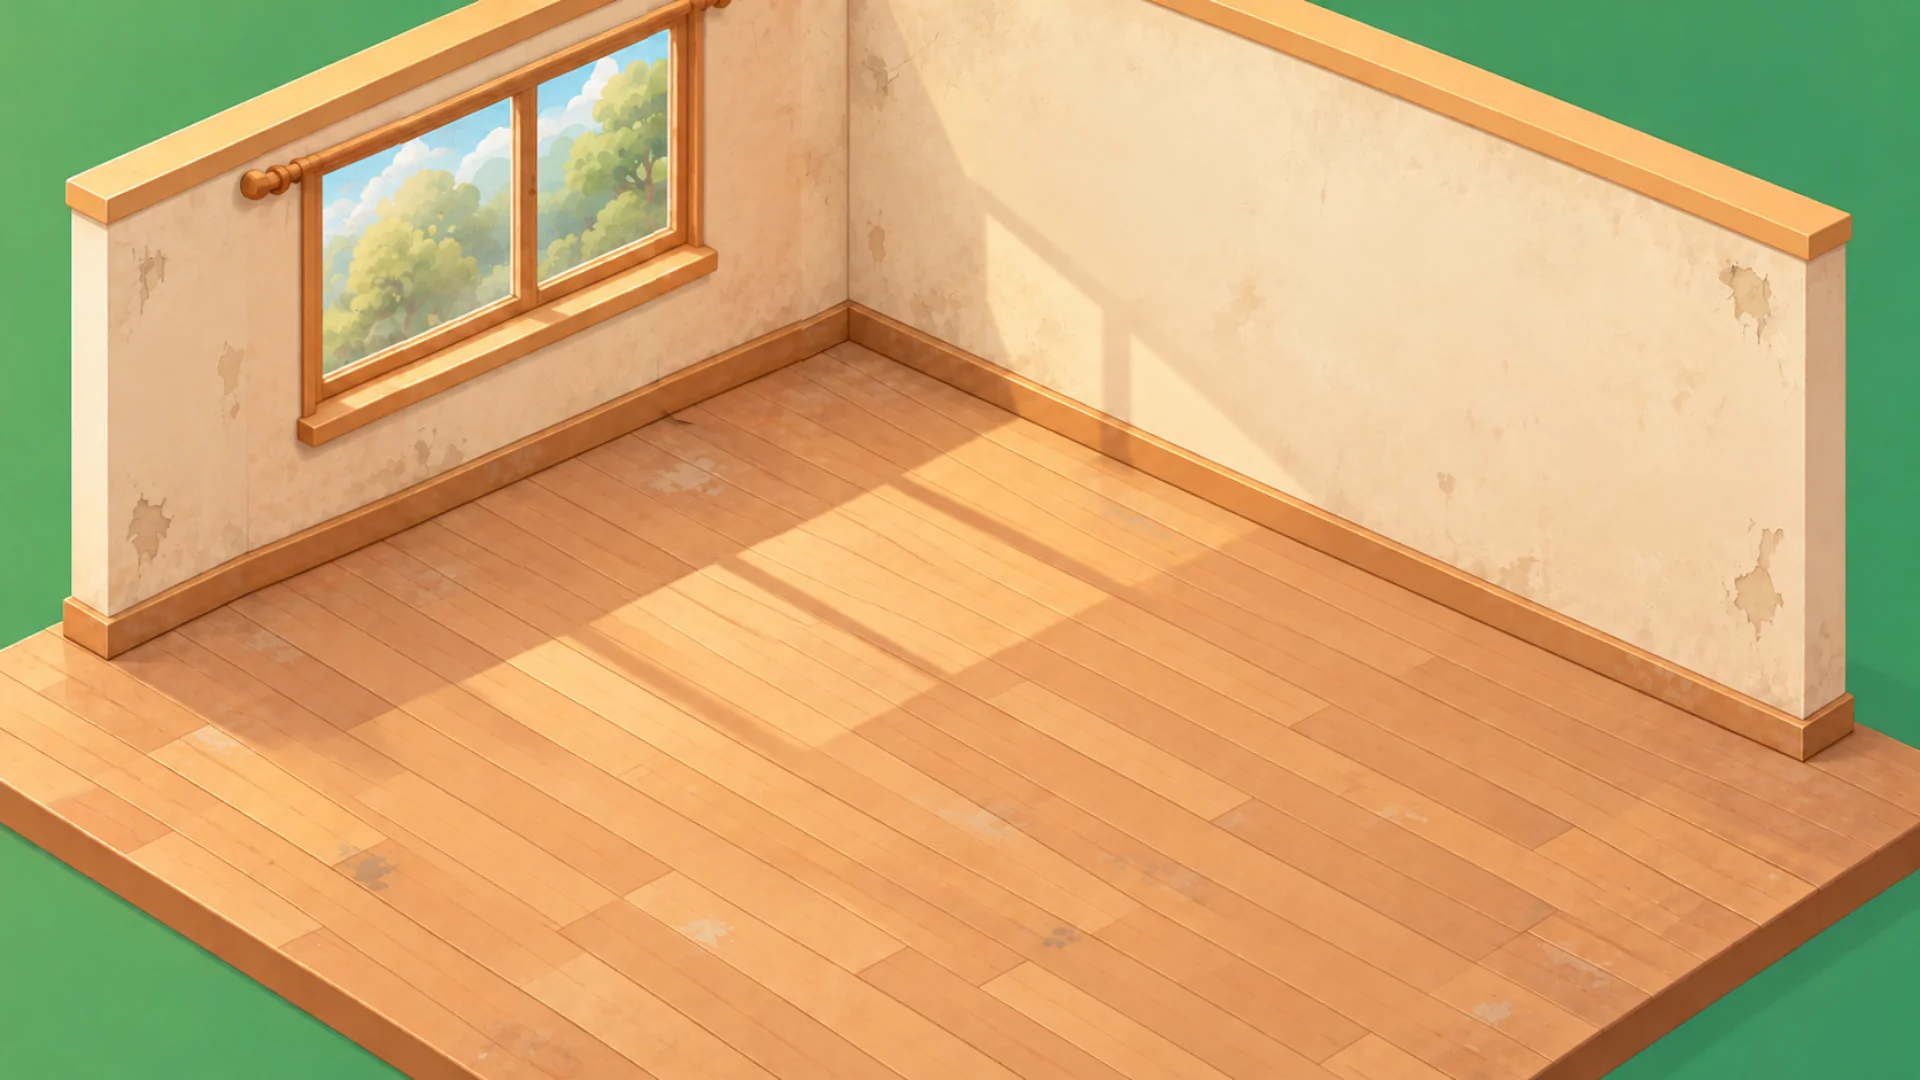
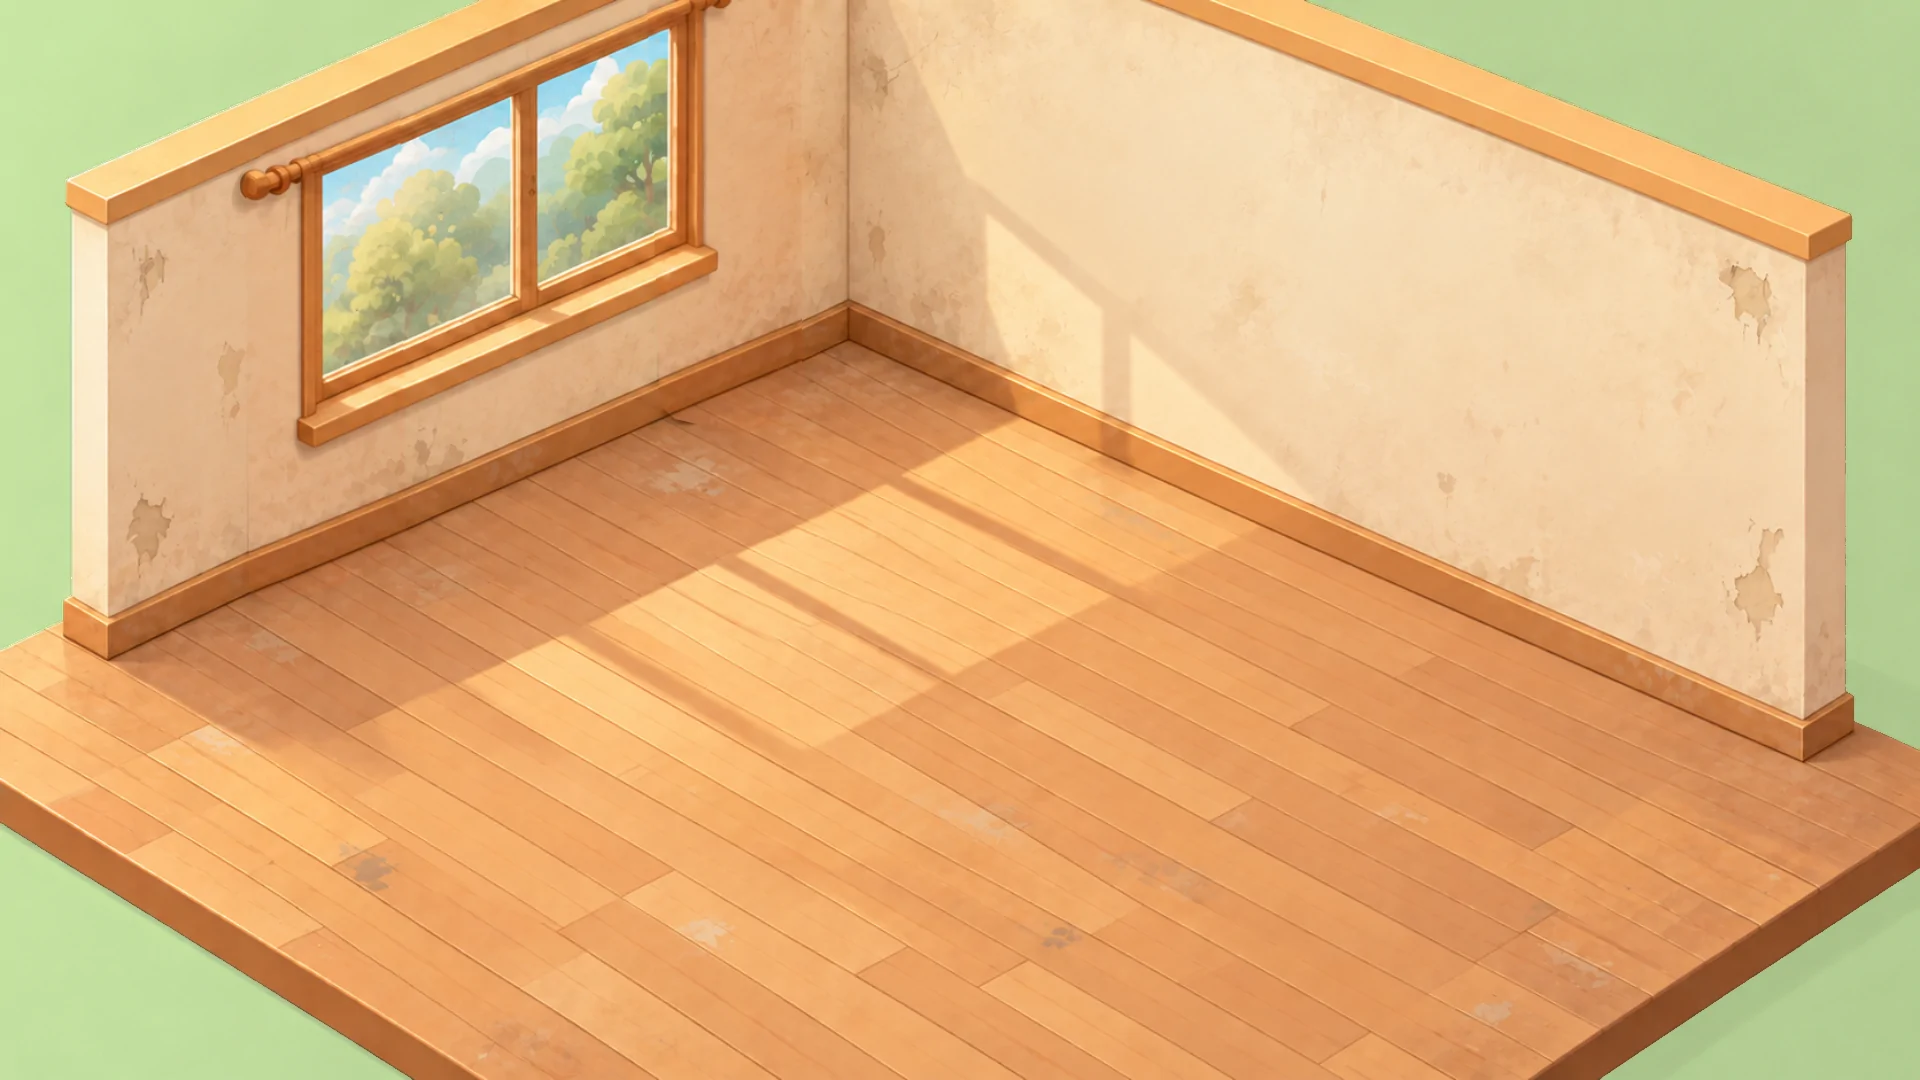
feat(salon-style): board recolour in the art pipeline (p4)
scripts/recolour-board.py (pinned Pillow/numpy, edge flood-fill mask, muted listki #BCD799), called by npm run art for the two salon backgrounds; both WebPs regenerated.

Claude-Session: https://claude.ai/code/session_0176wGTeCz3LW9VbZLjjLoEz

diff --git a/src/data/balance.ts b/src/data/balance.ts
@@ -15,7 +15,7 @@ export const balance = {
     artHealth: { labelCap: 3, fallbackLogEvery: 10 }, // fallbackLogEvery: ASL-04, the task scene logs one summary line per this many rounds where the art filter had to fall back (log only, no player-visible effect); labelCap: health-lines-and-smoke: at most this many labels of missing salon pieces in "Obrazki" (a longer list is noise for a parent)
     roomHold: { holdMs: 600, moveTolerance: 40 }, // PRD FR-018: a short hold on a furnished item opens the change panel; 600 ms is above the platform press thresholds (Android 400-500 ms, iOS 0.5 s) so a slow tap stays a tap, below the parent's 2 s; 40 game px is about 21 CSS px at 1024 wide, under half of a 96 px target
     roomHit: { minAlpha: 16 }, // S-16a: a touch counts on a furniture picture when its pixel has at least this alpha (0-255); the soft edge of a drop shadow stays below it, so a transparent corner of a big piece (the rug is 1111 px wide) lets the touch through to the piece below
-    loader: { timeoutMs: 12000, maxRetries: 1, slowAfterMs: 8000, totalMs: 50000 }, // audit H-2: a file the server never answers ends as a load error after this long, so the game starts on the stand-in boxes and "Obrazki" counts it missing instead of an endless loading bar; worst case per file (maxRetries + 1) x timeoutMs = 24 s, files load in parallel; the largest file is 115 KB (the task font), about 2.3 s at 50 KB/s on a cold first start, and after the first start the service worker serves them from its cache; audit A-1 / A-2: slowAfterMs shows the calm "still loading" line (a fast start ends within a few seconds, so 8 s means something is slow); totalMs is ONE limit for the whole boot load: the WebP pictures, the font and the 12 boot sound effects (M4A) are 1 922 277 B and the S-16c pack art adds 151 016 B, 2 090 166 B in all after the fox guide (S-16d grew the salon from 26 to 38 files, 1 233 242 to 1 489 688 B, and salon-style dropped the 288 634 B worn-furniture picture, 37 files, 1 201 054 B; the three 384 x 384 fox poses add 42 384 B), about 41.8 s at 50 KB/s on a cold first start, so the limit is 50 s (tests/bootBudget.test.ts sums the boot files on disk and keeps 2 s of headroom, so the next art addition forces a decision) (the two loading pictures are queued first, so the screen shows them early) (more while the service worker install downloads the same files in parallel), S-16b adds 12 sound effects to the boot queue, measured 132 243 B as M4A or 81 144 B as OGG (Phaser picks one format per file, M4A first), the 48 s music loop is not in the queue (746 014 B M4A, 107 707 B OGG, loaded only when the parent turns the music on); it stays above the 24 s worst case of one file, so a single stalled file still ends by its own limit; past it the game starts with what loaded and stand-ins for the rest, and the next start reads the service worker cache
+    loader: { timeoutMs: 12000, maxRetries: 1, slowAfterMs: 8000, totalMs: 50000 }, // audit H-2: a file the server never answers ends as a load error after this long, so the game starts on the stand-in boxes and "Obrazki" counts it missing instead of an endless loading bar; worst case per file (maxRetries + 1) x timeoutMs = 24 s, files load in parallel; the largest file is 115 KB (the task font), about 2.3 s at 50 KB/s on a cold first start, and after the first start the service worker serves them from its cache; audit A-1 / A-2: slowAfterMs shows the calm "still loading" line (a fast start ends within a few seconds, so 8 s means something is slow); totalMs is ONE limit for the whole boot load: the WebP pictures, the font and the 12 boot sound effects (M4A) are 1 922 277 B and the S-16c pack art adds 151 016 B, 2 092 396 B in all after the fox guide (S-16d grew the salon from 26 to 38 files, 1 233 242 to 1 489 688 B, and salon-style dropped the 288 634 B worn-furniture picture, 37 files, 1 203 284 B, the two backgrounds recoloured by scripts/recolour-board.py; the three 384 x 384 fox poses add 42 384 B), about 41.8 s at 50 KB/s on a cold first start, so the limit is 50 s (tests/bootBudget.test.ts sums the boot files on disk and keeps 2 s of headroom, so the next art addition forces a decision) (the two loading pictures are queued first, so the screen shows them early) (more while the service worker install downloads the same files in parallel), S-16b adds 12 sound effects to the boot queue, measured 132 243 B as M4A or 81 144 B as OGG (Phaser picks one format per file, M4A first), the 48 s music loop is not in the queue (746 014 B M4A, 107 707 B OGG, loaded only when the parent turns the music on); it stays above the 24 s worst case of one file, so a single stalled file still ends by its own limit; past it the game starts with what loaded and stand-ins for the rest, and the next start reads the service worker cache
     save: { debounceMs: 500, loadTimeoutMs: 5000, writeTimeoutMs: 5000, slowLoadTimeoutMs: 20000, backupAttempts: 3, migrationWriteRetries: 4, importMaxBytes: 1_000_000, forceAfterStarts: 2 }, // forceAfterStarts: a save the browser would not give (`unavailable`, not a timeout) may be replaced only from the 2nd consecutive such start (SRR-08): one refused read can be a passing glitch while the child's progress is still there, two in a row mean a broken store; the counter lives in localStorage outside the save; PRD FR-020 "short delay" after a change before the autosave writes (plan section 8); a kill inside the window loses at most the last ~0.5 s, purchases and round ends are saved at once; loadTimeoutMs: a cold IndexedDB open on an older iPad, the page is blank while it reads, so longer reads look like a crash; writeTimeoutMs: the same order as the read limit, a write or copy is tens of KB on an open connection, so a longer wait means the store hangs and the attempt is a named `timeout` failure; slowLoadTimeoutMs: the one longer wait on the SAME read after the first limit ("Poczekaj dłużej"), instead of a start counter: a cold open that needs more than 25 s in total is not a slow start but a broken store; backupAttempts: failed copies of the raw previous-version save (v1 before v2, v2 before v3, v3 before v4) in one session; the progress is written first after a failed copy and the copy is retried after later writes until this cap, then given up with a `lost`/`uncertain` record (save-truth) (a first round is about 7-12 save attempts, so 3 fit in the first minute of play; a child's progress outweighs the raw old bytes); migrationWriteRetries: retries of the first write after a migration without any change from the child (backupAttempts + 1), so a store that fails once is tried again without markDirty and one that never works stops; importMaxBytes: the largest file the parent import reads (a v1 save with 200 history entries is tens of KB, so 1 MB is generous and still safe to parse in memory)
     arrows: { maxValue: 20, tableMin: 3, tableMax: 4 }, // S-14b: values on an arrow graph or table stay in 0..20, a table has 3-4 rows
     numberLine: { maxTicks: 31 }, // S-14b: at most 31 ticks on a drawn number line (0..30 every 1, 0..100 every 10 uses 11), so labels stay readable at 1920 wide

diff --git a/scripts/recolour-board.py b/scripts/recolour-board.py
@@ -1,0 +1,103 @@
+#!/usr/bin/env python3
+"""Recolours the green board under the salon diorama (architecture-before / architecture-after).
+
+Usage: python3 scripts/recolour-board.py <in.png> <out.png> <#RRGGBB>
+
+DESIGN-GAP 170: the kit's board is a saturated green that fights the muted palette of the notebook screens.
+The target #BCD799 is the kit's leafGreen #90C36A at 60 % over ivory #FFF5DF (a muted "listki" green, not a kit token).
+
+Mask: HSV hue 95-165 deg and saturation > 0.30, flood-filled from the frame edges only, so the green trees in the
+window and anything else inside the room stay untouched. Recolour: the local board colour comes from a normalised
+Gaussian blur (radius 6); the target is the colour times (L / mean L) ** 0.5, which keeps the lighting gradient of the
+board. Pixels within a 3 px dilation of the board (the antialiased rim) are shifted by w * (target - local board), with
+w from the colour distance to the local board, so no green rim is left around the diorama.
+
+Local tool, like `npm run font`: needs Python 3 with Pillow and numpy, run by `npm run art`. Not run in CI, outputs are
+committed. It refuses to run on other library versions so a rebuild is byte-identical or fails loudly. The output PNG
+has no metadata and a fixed compression level.
+"""
+import collections
+import sys
+
+import numpy as np
+import PIL
+from PIL import Image, ImageFilter
+
+PINNED_PILLOW = '12.1.0'
+PINNED_NUMPY = '2.4.3'
+
+
+def check_versions() -> None:
+    if PIL.__version__ != PINNED_PILLOW or np.__version__ != PINNED_NUMPY:
+        sys.exit(f'recolour-board: Pillow {PIL.__version__} / numpy {np.__version__} found, '
+                 f'{PINNED_PILLOW} / {PINNED_NUMPY} required '
+                 f'(pip install pillow=={PINNED_PILLOW} numpy=={PINNED_NUMPY}); other versions may change the bytes')
+
+
+def hsv(a):
+    r, g, b = a[..., 0] / 255., a[..., 1] / 255., a[..., 2] / 255.
+    mx = a.max(axis=-1) / 255.
+    mn = a.min(axis=-1) / 255.
+    d = mx - mn + 1e-6
+    h = np.where(mx == r, ((g - b) / d) % 6, np.where(mx == g, (b - r) / d + 2, (r - g) / d + 4)) * 60
+    s = np.where(mx > 0, d / (mx + 1e-6), 0)
+    return h, s
+
+
+def board_mask(a):
+    h, s = hsv(a)
+    core = (h > 95) & (h < 165) & (s > 0.30)
+    height, width = core.shape
+    filled = np.zeros_like(core)
+    queue = collections.deque()
+    edges = [(x, y) for x in range(width) for y in (0, height - 1)] + [(x, y) for y in range(height) for x in (0, width - 1)]
+    for x, y in edges:
+        if core[y, x] and not filled[y, x]:
+            filled[y, x] = True
+            queue.append((x, y))
+    while queue:
+        x, y = queue.popleft()
+        for nx, ny in ((x + 1, y), (x - 1, y), (x, y + 1), (x, y - 1)):
+            if 0 <= nx < width and 0 <= ny < height and core[ny, nx] and not filled[ny, nx]:
+                filled[ny, nx] = True
+                queue.append((nx, ny))
+    return filled, h
+
+
+def nblur(x, radius=6):
+    top = x.max() if x.max() > 0 else 1
+    img = Image.fromarray(np.clip(x / top * 255, 0, 255).astype(np.uint8))
+    return np.asarray(img.filter(ImageFilter.GaussianBlur(radius))).astype(np.float32) / 255 * top
+
+
+def recolour(a, target, shade=0.5):
+    filled, h = board_mask(a)
+    f = filled.astype(np.float32)
+    wsum = nblur(f) + 1e-6
+    board = np.stack([nblur(a[..., i] * f) / wsum for i in range(3)], -1)
+    lum = board.mean(-1)
+    mean_lum = a[filled].mean()
+    tgt = np.array(target, np.float32)[None, None, :] * ((lum / mean_lum) ** shade)[..., None]
+    rim = np.asarray(Image.fromarray((f * 255).astype(np.uint8)).filter(ImageFilter.MaxFilter(7))).astype(np.float32) / 255
+    dist = np.linalg.norm(a - board, axis=-1)
+    w_rim = np.clip(1 - dist / 140, 0, 1) * rim * ((h > 70) & (h < 180))
+    w = np.maximum(f, w_rim)
+    out = a + w[..., None] * (tgt - board)
+    return Image.fromarray(np.clip(out, 0, 255).astype(np.uint8))
+
+
+def main() -> None:
+    check_versions()
+    if len(sys.argv) != 4:
+        sys.exit('usage: recolour-board.py <in.png> <out.png> <#RRGGBB>')
+    src, dst, colour = sys.argv[1:]
+    hexv = colour.lstrip('#')
+    if len(hexv) != 6:
+        sys.exit(f'recolour-board: bad colour {colour}')
+    target = tuple(int(hexv[i:i + 2], 16) for i in (0, 2, 4))
+    a = np.asarray(Image.open(src).convert('RGB')).astype(np.float32)
+    recolour(a, target).save(dst, format='PNG', compress_level=9, optimize=False)
+
+
+if __name__ == '__main__':
+    main()

diff --git a/context/changes/salon-style/plan.md b/context/changes/salon-style/plan.md
@@ -650,10 +650,10 @@ None: save format stays v4; `RoomDef.scene` loses a texture key, no saved field 
 
 #### Automated
 
-- [ ] 4.1 `npm run art` run once: `git status --porcelain public/` lists exactly the two background files; run again: `git status --porcelain public/` unchanged and `cmp` of each file against a copy from the first run identical
-- [ ] 4.2 Deliberate break: run `scripts/recolour-board.py` under a fake version (`PINNED_PILLOW = '0.0.0'` edited locally) → exits non-zero with the pip line; restored; meta-check: proves the pin, not the image (the image is judged by the visual gate)
-- [ ] 4.3 `tests/roomArt.test.ts` (headers and sizes) and `tests/bootBudget.test.ts` green; the boot payload sum printed by a one-off `node -e` over `ROOM_ART`/`TASK_ART`/`UI_ART` sizes is below 48 s at 50 KB/s and recorded in the handoff
-- [ ] 4.4 `grep -n "PINNED_PILLOW\|PINNED_NUMPY" scripts/recolour-board.py` present; `grep -n "recolour-board.py" scripts/make-task-art.mjs` present
+- [x] 4.1 `npm run art` run once: `git status --porcelain public/` lists exactly the two background files; run again: `git status --porcelain public/` unchanged and `cmp` of each file against a copy from the first run identical
+- [x] 4.2 Deliberate break: run `scripts/recolour-board.py` under a fake version (`PINNED_PILLOW = '0.0.0'` edited locally) → exits non-zero with the pip line; restored; meta-check: proves the pin, not the image (the image is judged by the visual gate)
+- [x] 4.3 `tests/roomArt.test.ts` (headers and sizes) and `tests/bootBudget.test.ts` green; the boot payload sum printed by a one-off `node -e` over `ROOM_ART`/`TASK_ART`/`UI_ART` sizes is below 48 s at 50 KB/s and recorded in the handoff
+- [x] 4.4 `grep -n "PINNED_PILLOW\|PINNED_NUMPY" scripts/recolour-board.py` present; `grep -n "recolour-board.py" scripts/make-task-art.mjs` present
 - [ ] 4.5 Full local gate green; e2e (orchestrator) `<branch e2e baseline> + 0`
 
 ### Phase 5: Docs, follow-ups, seam sweep
